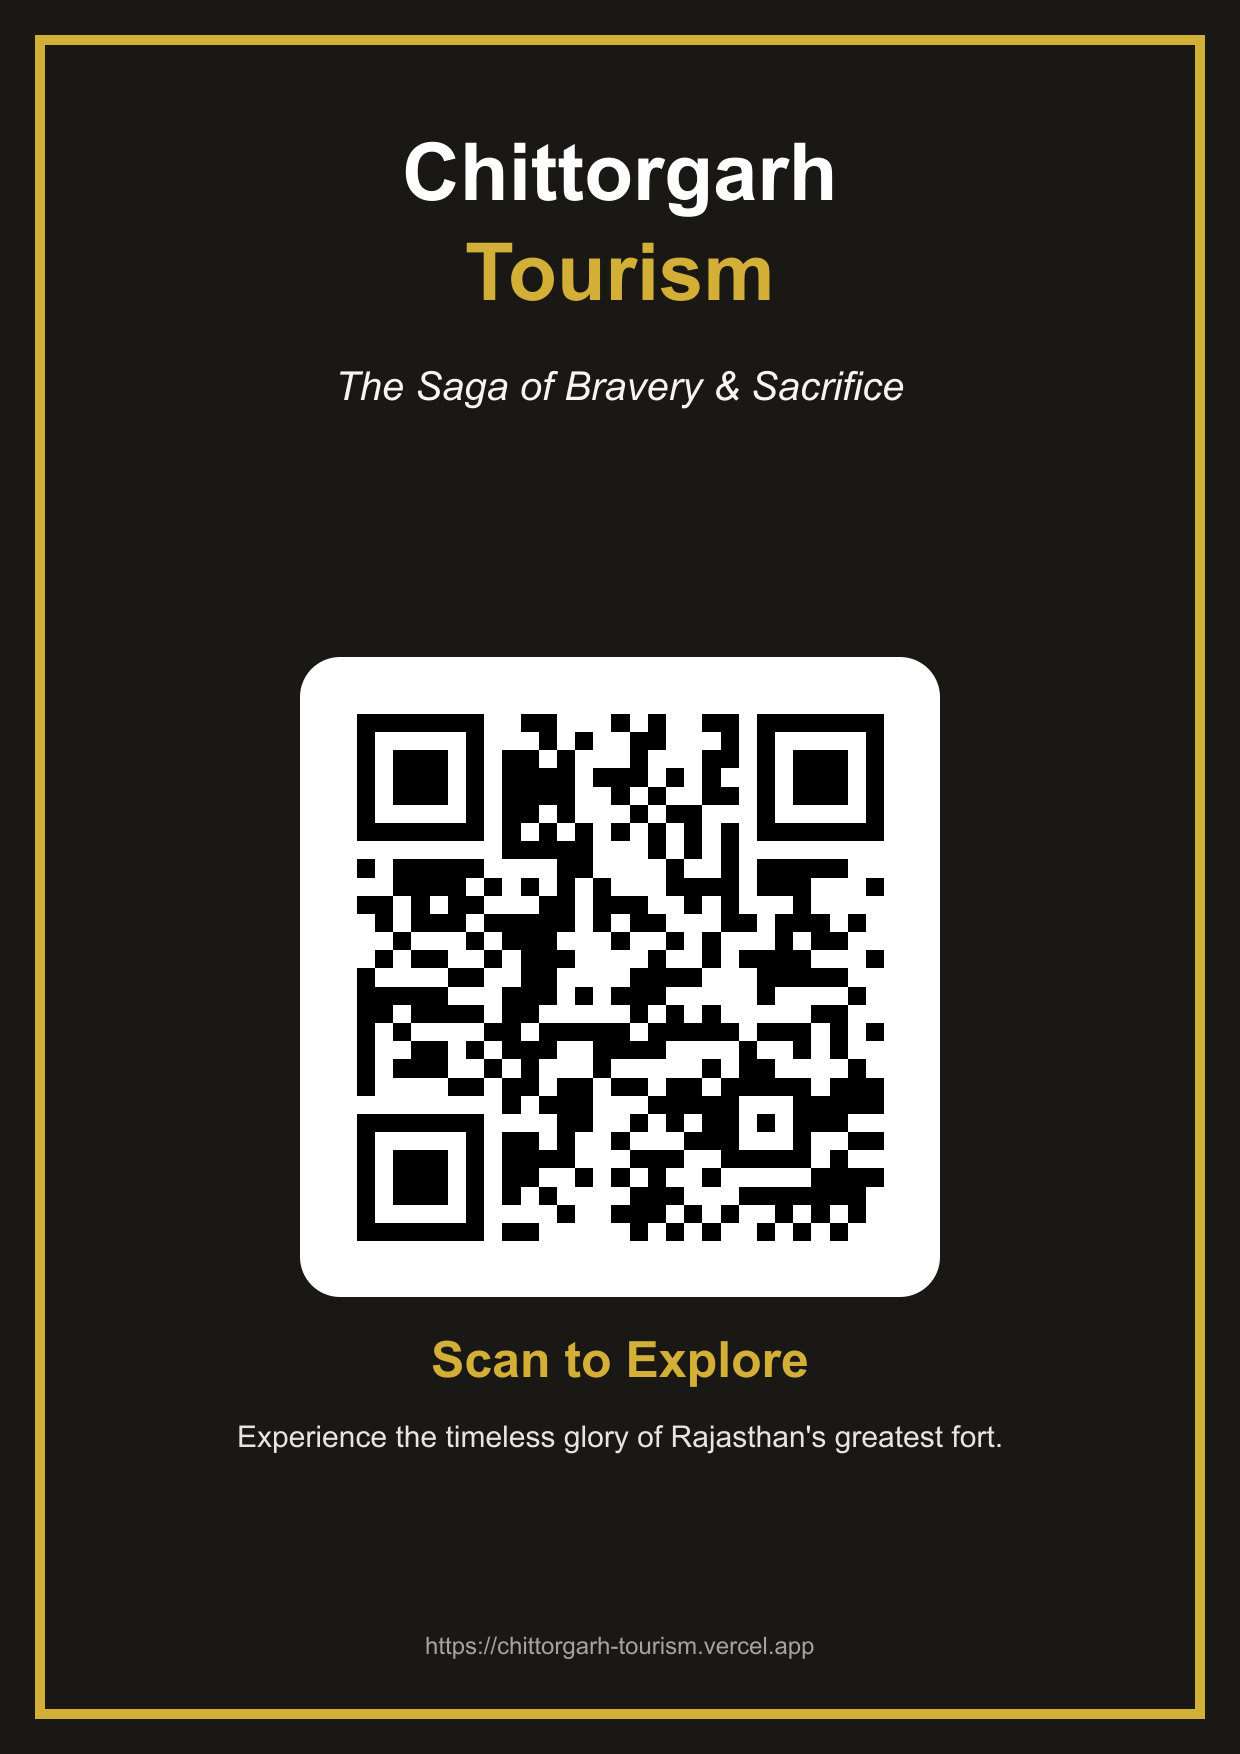
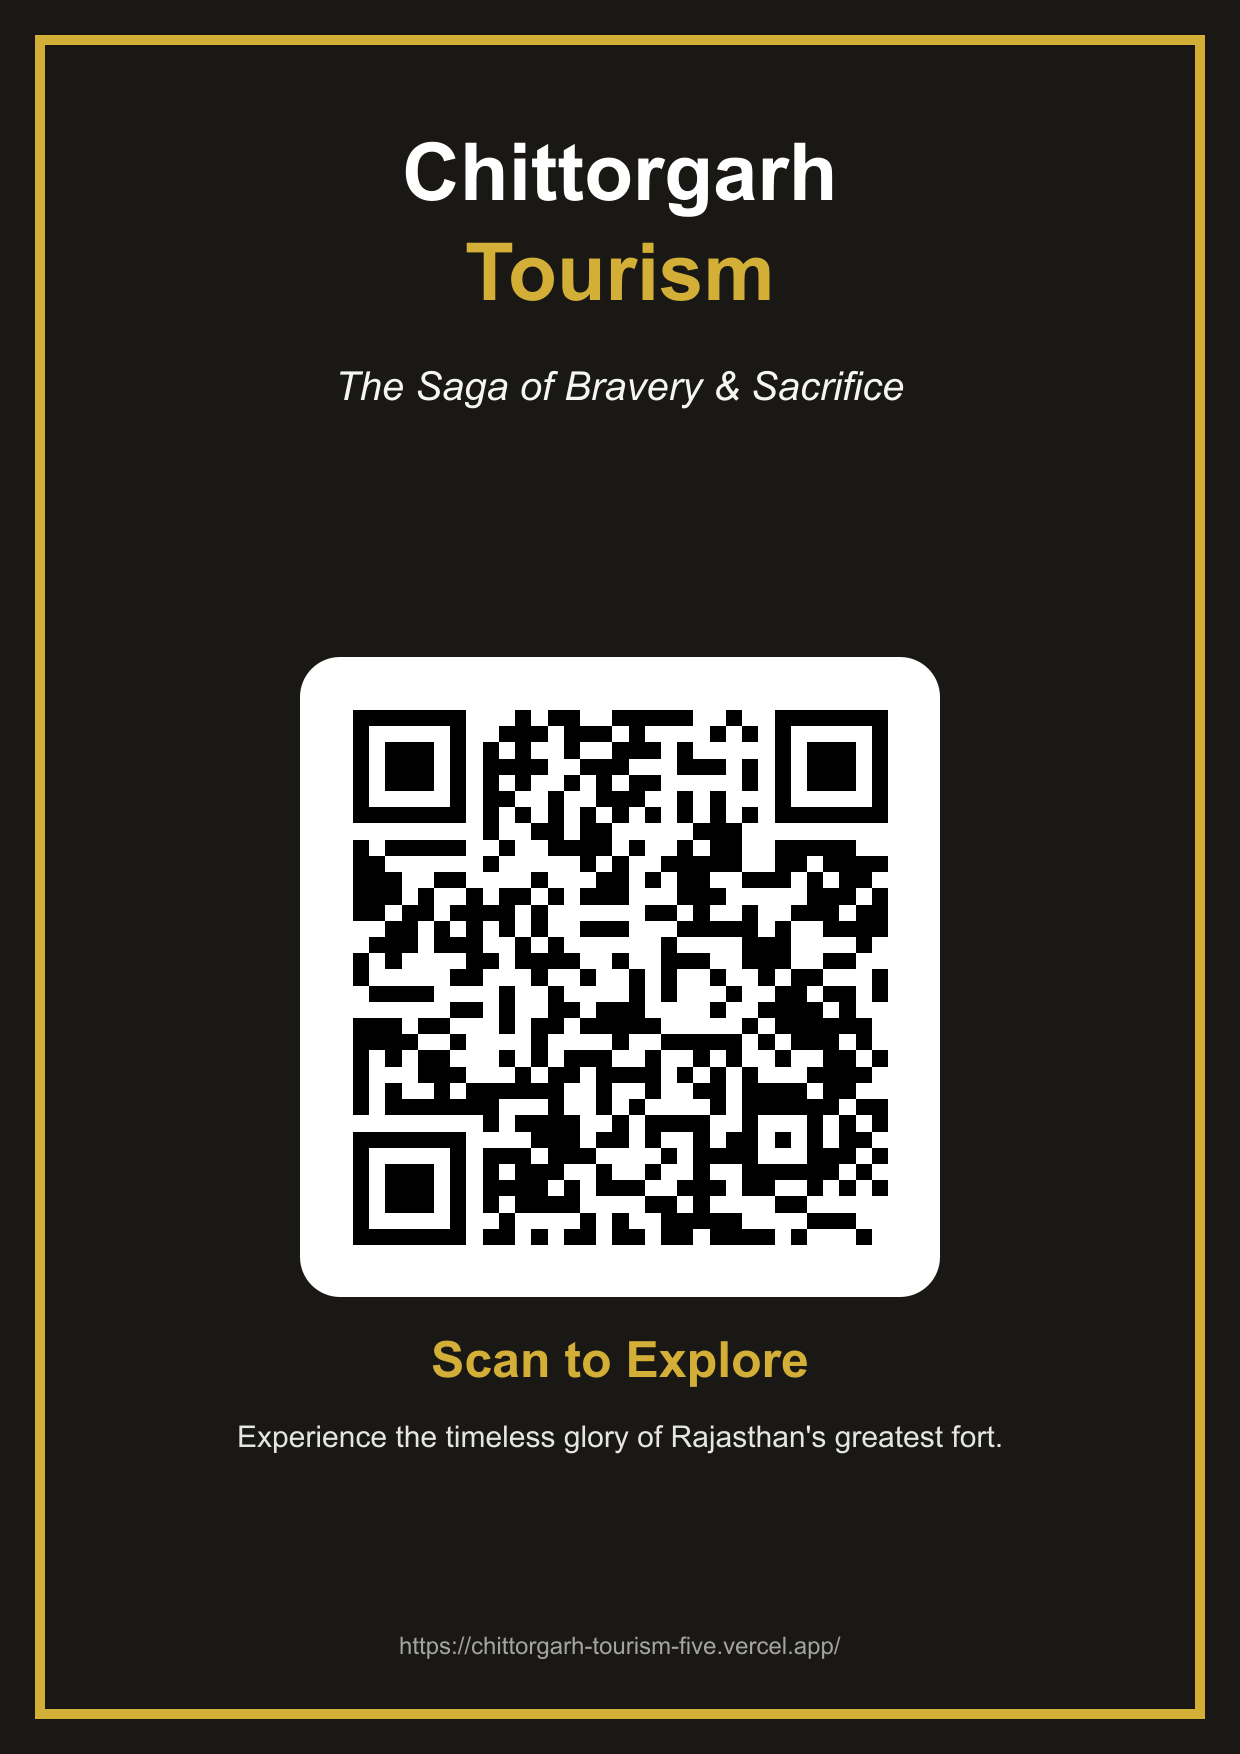
Update QR poster with the correct provided URL

Changed region(s): [[0.2758, 0.4002, 0.7355, 0.7081], [0.3371, 0.9236, 0.6742, 0.9544]]

diff --git a/generate_poster.js b/generate_poster.js
@@ -91,4 +91,4 @@ async function createPoster(url, outputPath) {
 }
 
 // Replace with the actual deployed URL when ready
-createPoster('https://chittorgarh-tourism.vercel.app', 'public/poster.png');
+createPoster('https://chittorgarh-tourism-five.vercel.app/', 'public/poster.png');
